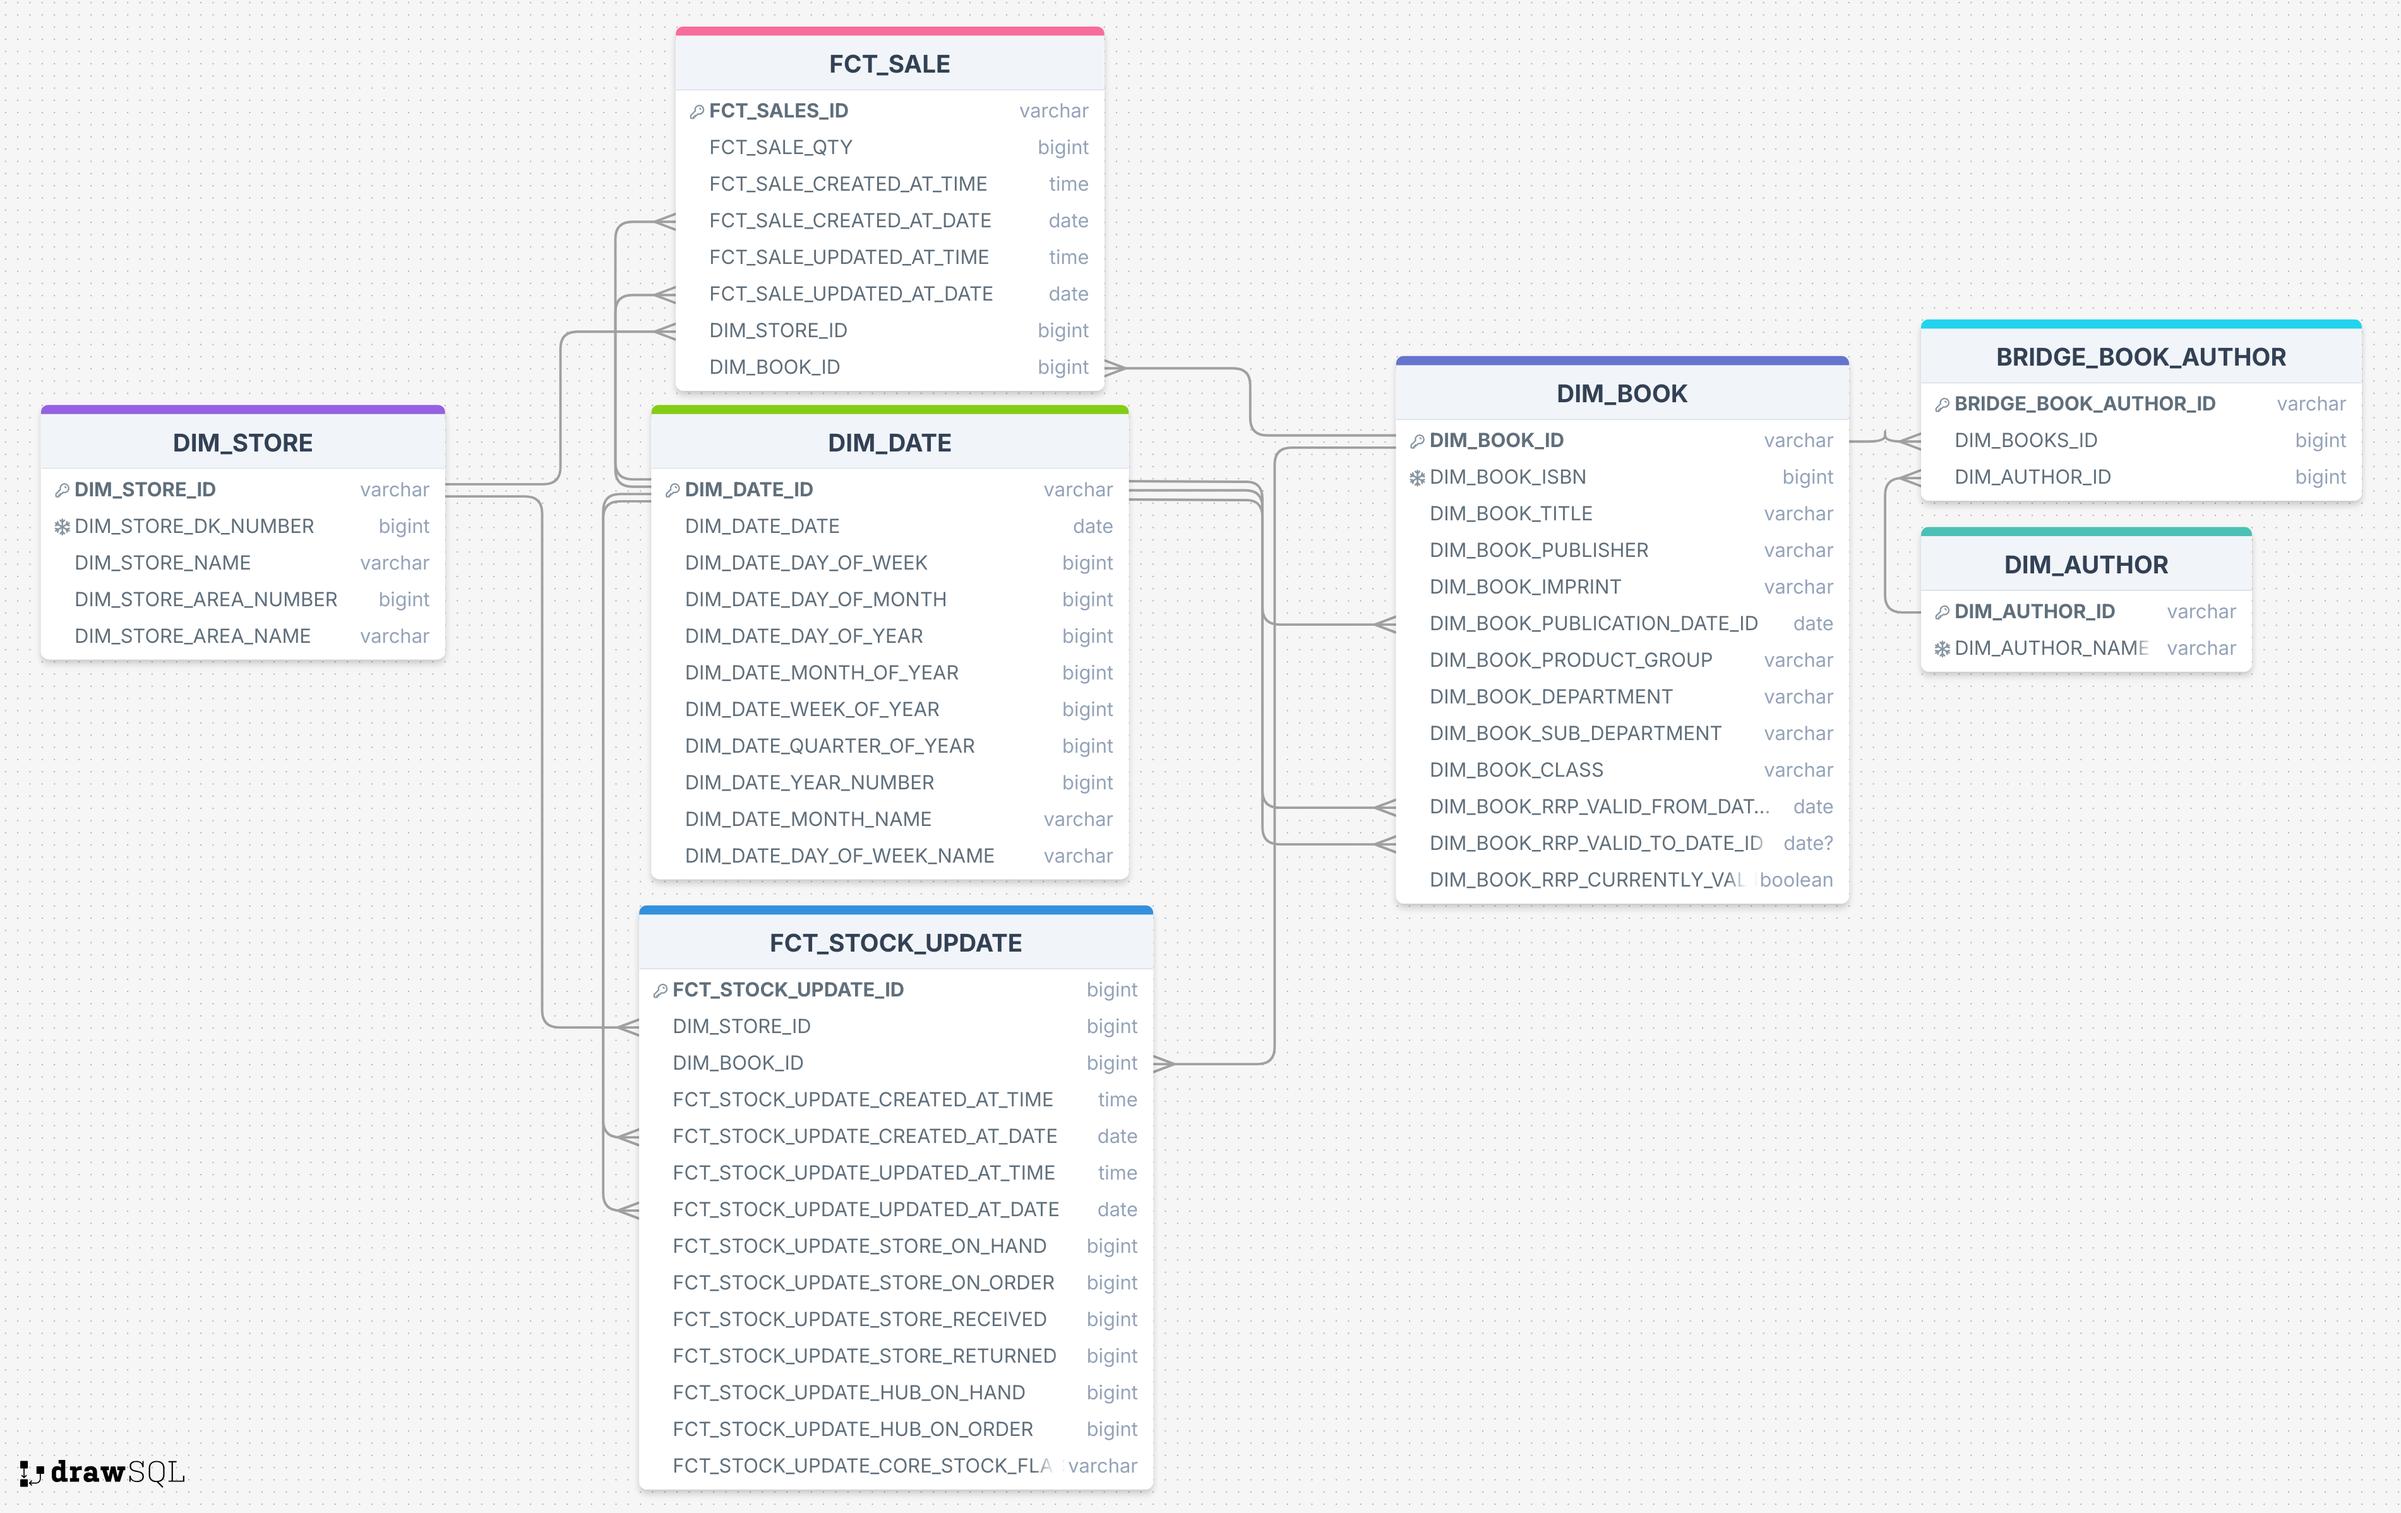
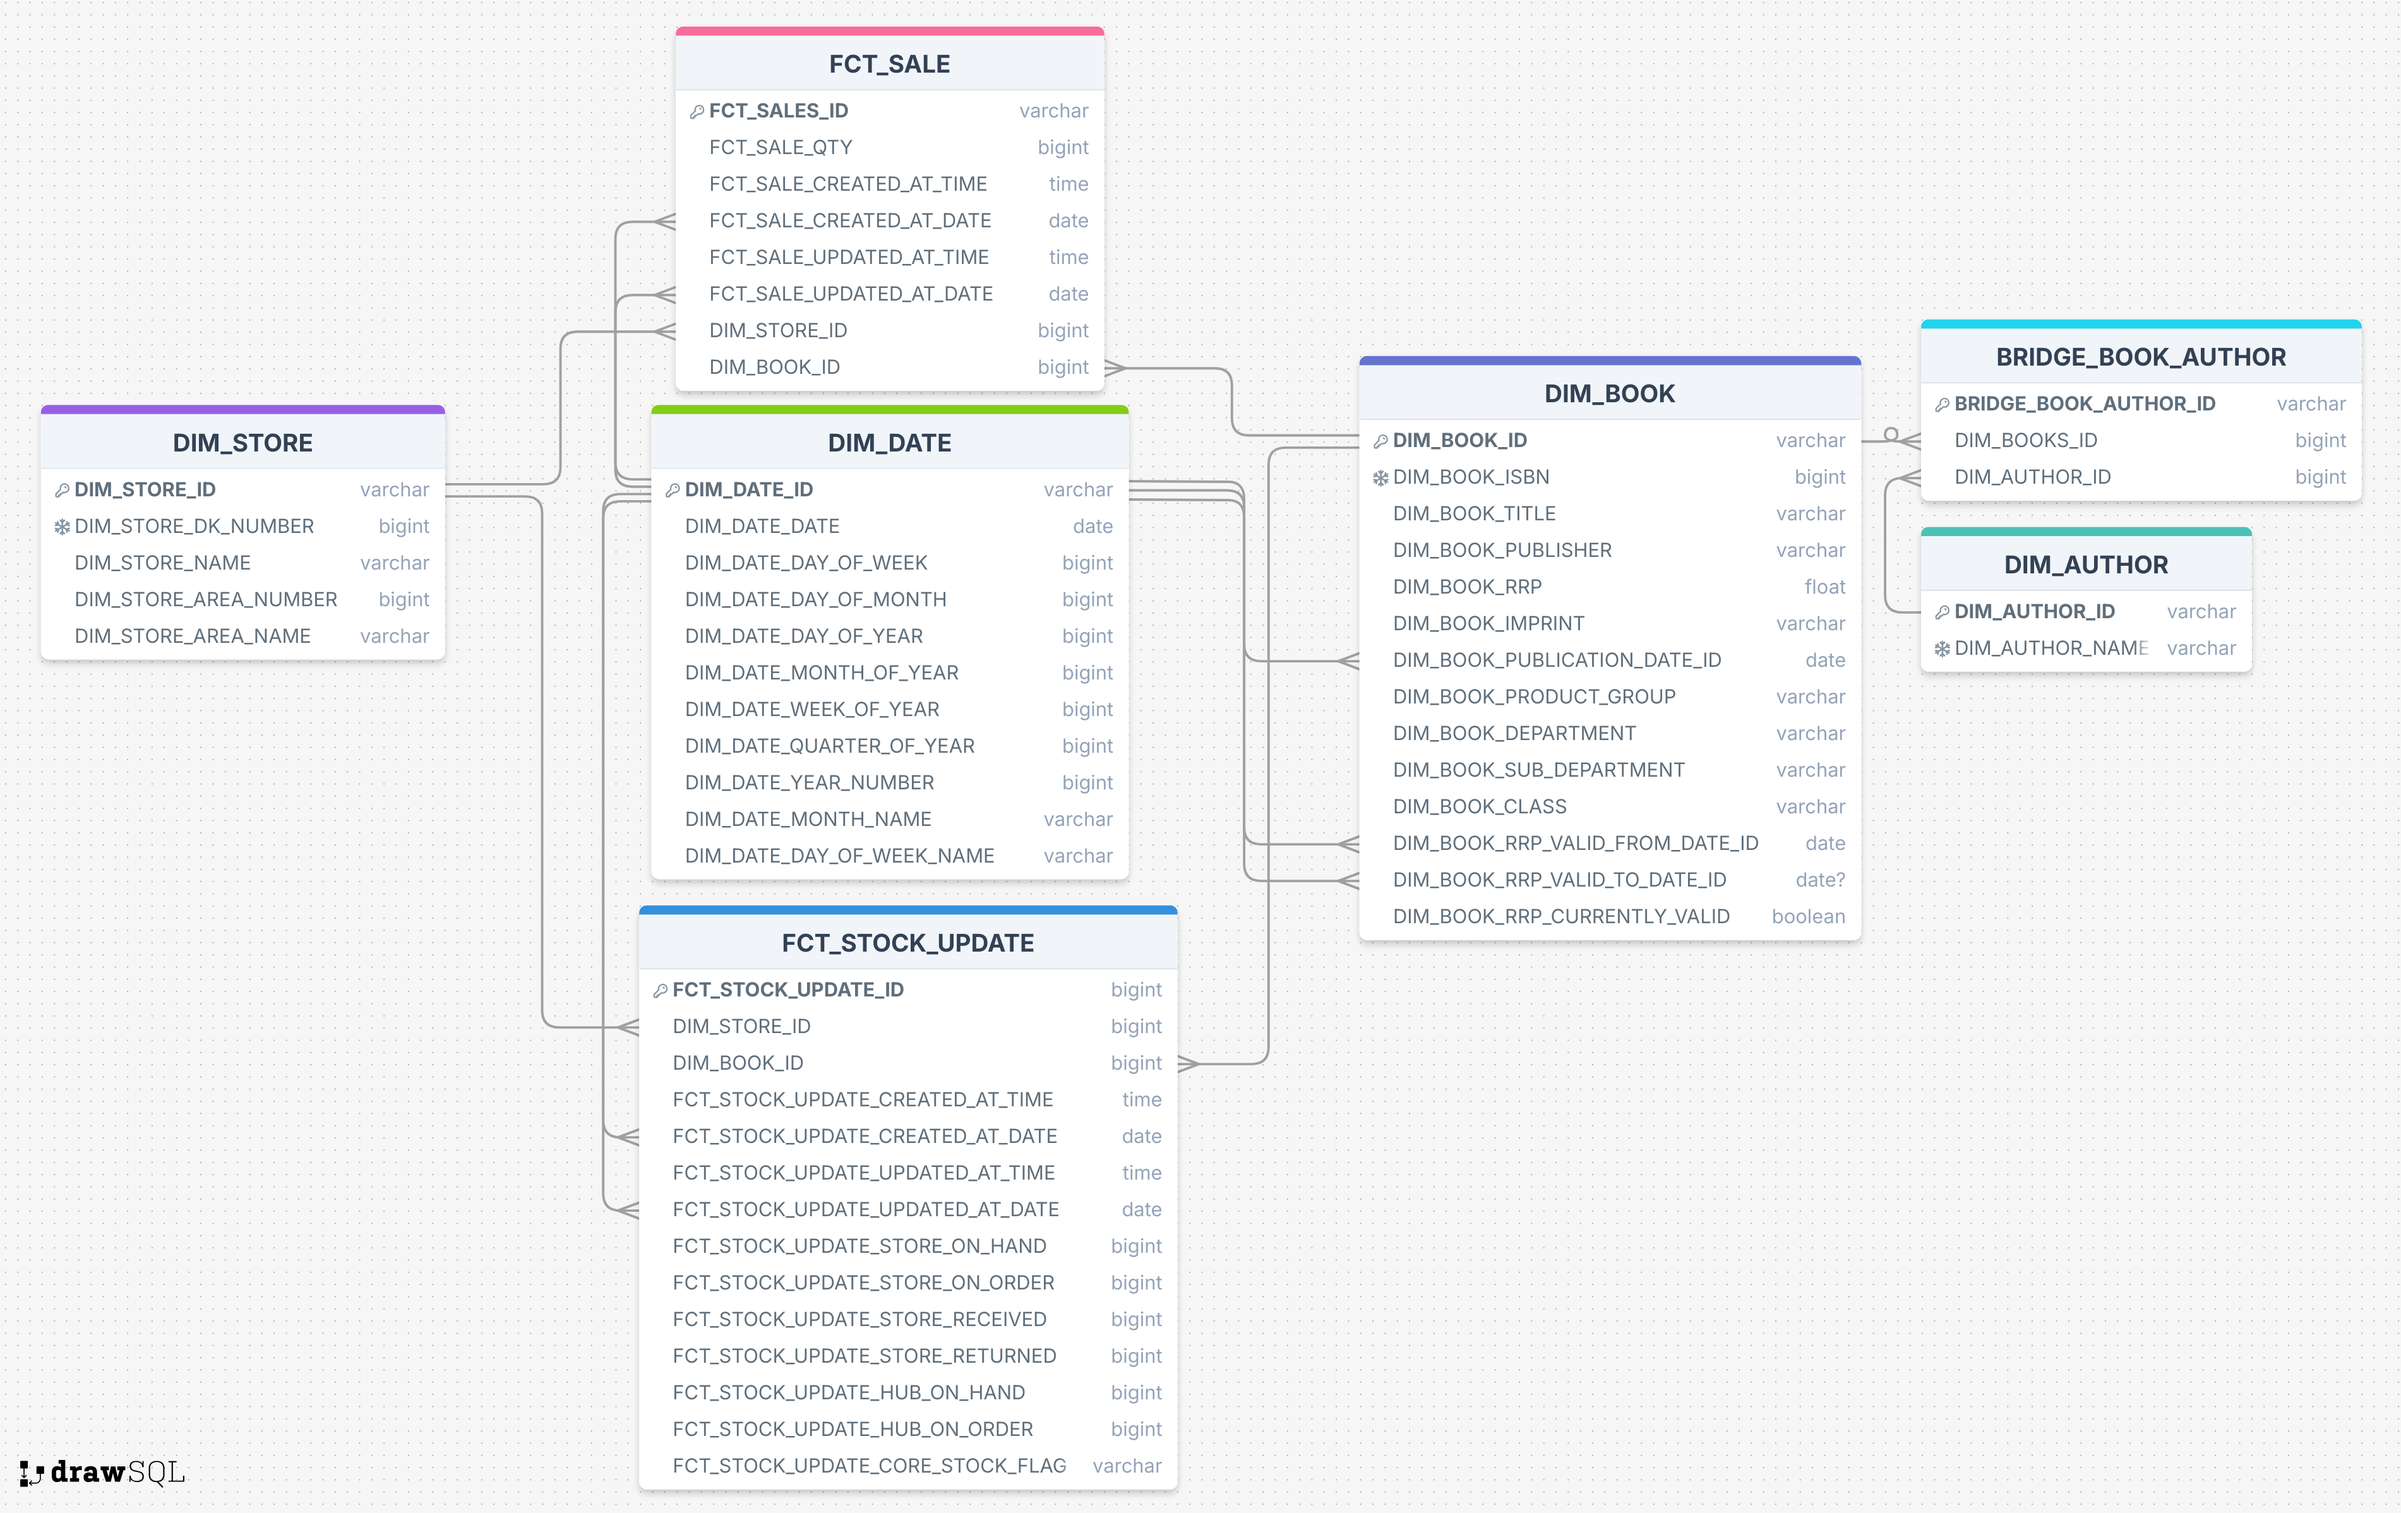
added more to readme

diff --git a/README.md b/README.md
@@ -1,4 +1,5 @@
-# [Modeling DK sale data for analysis]
+# Data modeling for DK analytics
+
 
 
 
@@ -99,8 +100,11 @@ The singular tests are defined in [/dbt_transform/tests/singular/](dbt_transform
 
 The DAG of the dbt work flow is shown in **Fig 2**. 
 
-![DBT_DAG](dbt_DAG.png)
+![DBT_DAG](DAG.png)
 **Fig 2: DAG with not tests**
+
+![DBT_DAG](DAG_tests.png)
+**Fig 3: DAG with tests**
 
 
 ### Source tests
@@ -131,11 +135,11 @@ The fifth and final intermediate model is [int_store_sales__single_author_rows](
 
 All the queries in this directory create the tables shown in the ERD diagram in **Fig 1**. Each of the names of the models correspond to the table it creates from the ERD. The main way these models were tested is by checking the relationships between keys, checking that columns were of the right type, columns were unique and also columns were not_null.
 
-The [dim_date](dbt_transform/models/marts/dim_date.sql) model creates the dim_date table. This contains information about every day from 2020-01-01 to 2030-12-31, this information includes the month, day, day of the year, day of the months, the quarter and more. To create this the external macro `dbt_date.get_date_dimension` was used.
+The [dim_date](dbt_transform/models/marts/dim_date.sql) model creates the dim_date table. This contains information about every day from 2000-01-01 to 2050-12-31, this information includes the month, day, day of the year, day of the months, the quarter and more. To create this the external macro `dbt_date.get_date_dimension` was used.
 
 The [dim_author](dbt_transform/models/marts/dim_author.sql) model creates the dim_author table. This contains every distinct author name in the input data. The assumption made is that authors are distinguishable from just their name which is not true in reality as two different authors can have the same, however this is a limitation of the data. A surrogate key is generated using the `AUTHOR_NAME` which acts as the primary key. To test this model I made sure that both the `DIM_AUTHOR_ID` and `DIM_AUTHOR_NAME` were unique and not null.
 
-The [dim_book](dbt_transform/models/marts/dim_book.sql) model creates the dim_book table. This contains every distinct book which are classified as distinct using `ISBN`, `TITLE`, `RRP`, `IMPRINT`, `PUBLICATION_DATE`, `PRODUCT_GROUP`, `BOOK_DEPARTMENT`, `SUB_DEPARTMENT`, `CLASS` and `RRP_VALID_FROM`. This table is a type 2 Slowly Changing Dimension table so the `DIM_BOOK_RRP_VALID_FROM`, `DIM_BOOK_RRP_VALID_TO` and `DIM_BOOK_RRP_CURRENTLY_VALID` were added and tests were done to make sure  these columns are the correct data type. The tests on this table was to check if the surrogate key created is unique and not null, if the ISBN of the books are unique and not not_null (these do not have to be unique as there can be different RRP) and the `PUBLICATION_DATE_ID` was not_null and a varchar. Relationship between `dim_book` and `dim_date` was tested to make sure the `DIM_BOOK_PUBLICATION_DATE_ID` corresponded to a `DIM_DATE_ID` in the dim_date table.
+The [dim_book](dbt_transform/models/marts/dim_book.sql) model creates the dim_book table. This contains every distinct book (the same ISBN with different RRP are classified as different rows) which are classified as distinct using DIM_BOOK_ISBN, `DIM_BOOK_RRP`, `DIM_BOOK_TITLE` `DIM_BOOK_PUBLISHER`, `DIM_BOOK_IMPRINT`, `DIM_BOOK_PUBLICATION_DATE_ID`, `DIM_BOOK_RRP_VALID_FROM_DATE_ID`, `DIM_BOOK_PRODUCT_GROUP`, `DIM_BOOK_DEPARTMENT`, `DIM_BOOK_SUB_DEPARTMENT`, `DIM_BOOK_CLASS`. This table is a type 2 Slowly Changing Dimension table so the `DIM_BOOK_RRP_VALID_FROM`, `DIM_BOOK_RRP_VALID_TO` and `DIM_BOOK_RRP_CURRENTLY_VALID` were added and tests were done to make sure  these columns are the correct data type. The tests on this table was to check if the surrogate key created is unique and not null, if the ISBN of the books are unique and not not_null (these do not have to be unique as there can be different RRP) and the `PUBLICATION_DATE_ID` was not_null and a varchar. Relationship between `dim_book` and `dim_date` was tested to make sure the `DIM_BOOK_PUBLICATION_DATE_ID` corresponded to a `DIM_DATE_ID` in the dim_date table.
 
 The [bridge_book_author](dbt_transform/models/marts/bridge_book_author.sql) model creates the bridge_book_author table. This contains a mapping for books to all their respective authors. The surrogate key is created using `DIM_BOOK_ID` and `DIM_AUTHOR_ID`, this key is then checked for uniqueness and for null values. There are two relationship tests to make sure the author and book IDs are present in their respective tables.
 
@@ -145,6 +149,6 @@ The [fct_sale](dbt_transform/models/marts/fct_sale.sql) model creates the fact t
 
 ### Main assumptions and difficulties
 
-The main challenge I faced is finding a way to dynamically fill in the `DIM_BOOK_RRP_VALID_FROM_DATE_ID`, `DIM_BOOK_RRP_VALID_TO_DATE_ID` and `DIM_BOOK_RRP_CURRENTLY_VALID` in the dim_book table. Right now it works by testing if there is only one RRP per ISBN so this means that `DIM_BOOK_RRP_VALID_TO_DATE_ID` is always null, `DIM_BOOK_RRP_VALID_FROM_DATE_ID` is the `CREATED_AT` date and `DIM_BOOK_RRP_CURRENTLY_VALID` is always true. This has not been fixed yet but should be fixed to make sure the pipeline runes for.
+- One challenge was finding a way to dynamically fill the book table to make sure that it followed the type 2 SCD constraint put on it.
 
 The time constraint meant I could not make sure everything with the project was perfect.
